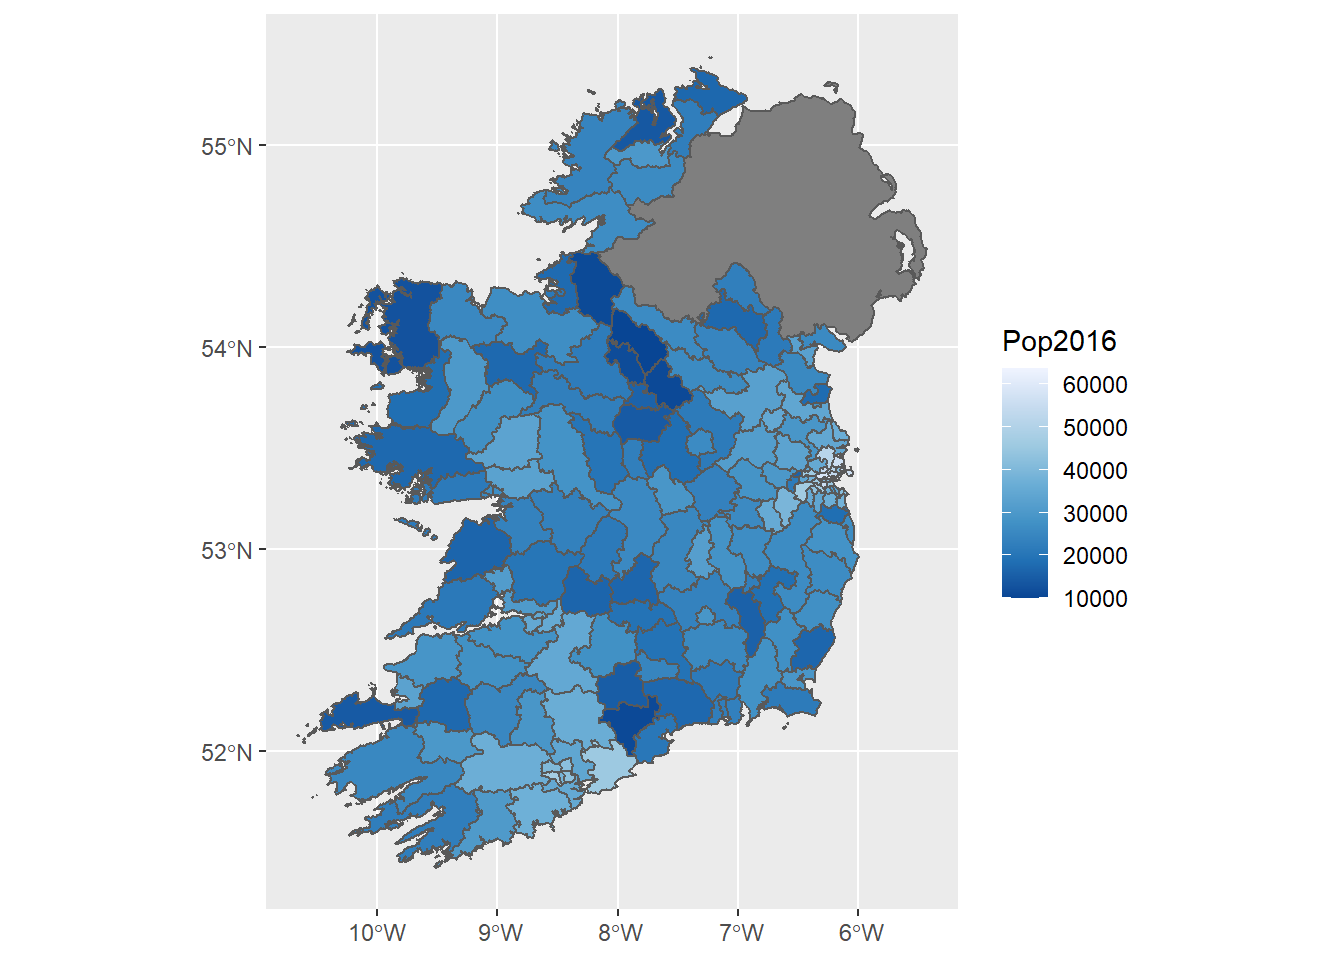
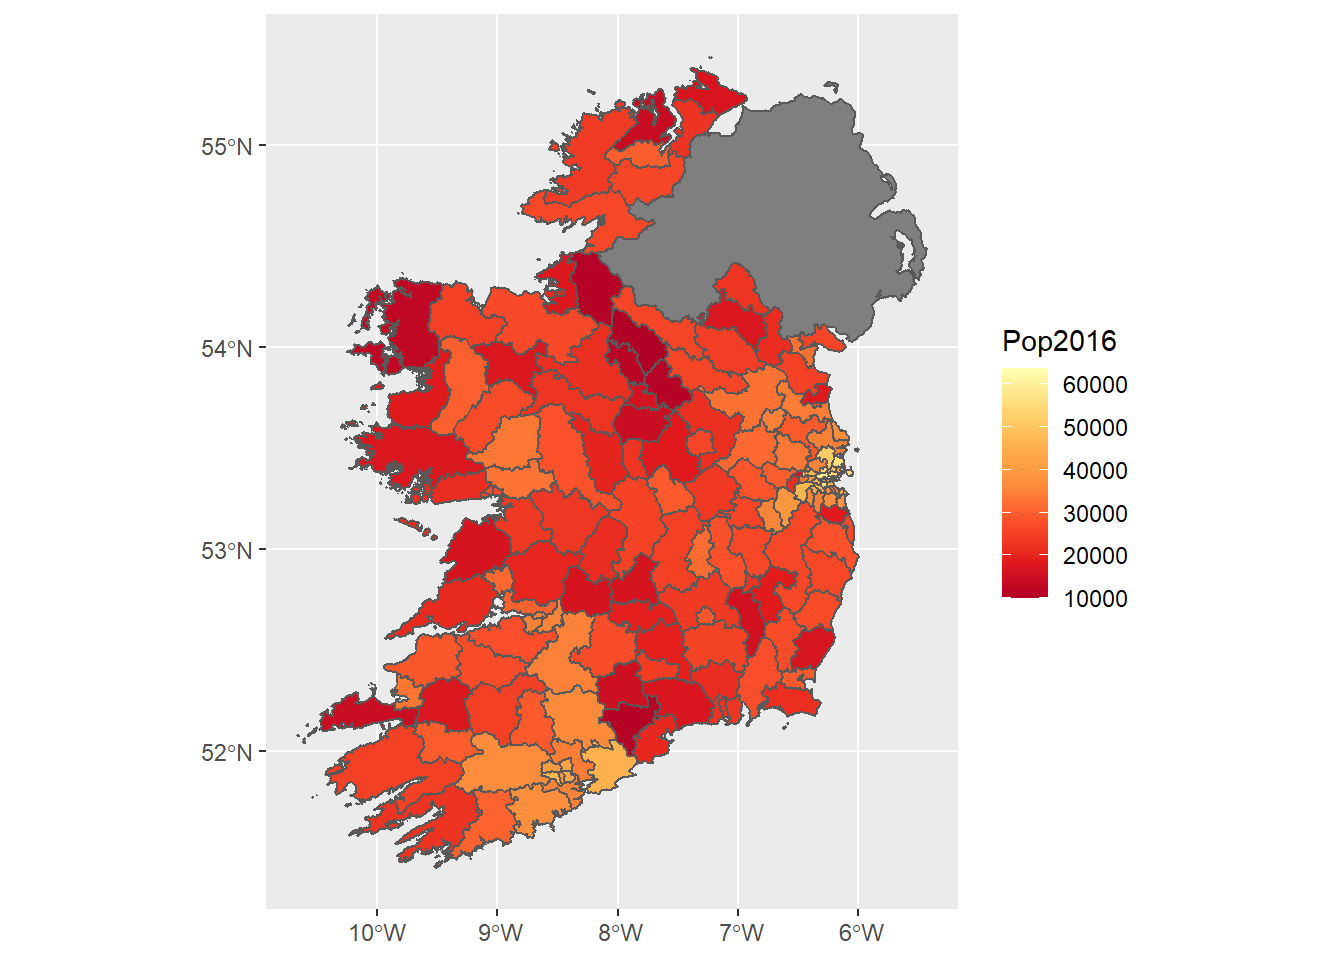
hatch

Changed region(s): [[0.25, 0.0625, 0.6562, 0.9062], [0.7188, 0.375, 0.7812, 0.625]]

diff --git a/docs/index.html b/docs/index.html
@@ -320,16 +320,47 @@ ggsave(file = &quot;images/simple_lea_map.png&quot; , plot = simple_lea_map, wid
 <pre class="r"><code>ggplot() + geom_sf(data = lea_166 , aes(fill=Pop2016))</code></pre>
 <p><img src="index_files/figure-html/chloro_1%20-1.png" width="672" /></p>
 <p>Note the <code>aes()</code> function within <code>geom_sf()</code>. This is for aesthetic mappings, and is very commonly used within ggplot for specifying dimensions. Find out more about this function <a href="https://www.rdocumentation.org/packages/ggplot2/versions/3.3.5/topics/aes">here</a>.</p>
-<p>You’ll see that the colour varies from dark blue to light blue. There are a few easy ways to choose a different range of colours. The first is using <code>scale_fill_distiller</code>:</p>
+<p>You’ll see that the colour varies from dark blue to light blue. There are a few easy ways to choose a different range of colours, and I’ll show two of these here. The first is using <code>scale_fill_distiller</code> which takes an argument <code>palette</code>. Here I’m using the palette <code>YlOrRd</code> which is short for yellow-orange-red. There are 35 different palettes supplied with this function which you can see on the help page for <code>scale_fill_distiller</code>. There are three type of palette: sequential, which are all light to dark and are designed for data that goes from low to high; qualitative, which are for categorical data; and diverging, which have a dark colour at each end and a very light colour in the middle, and these are best suited where the midpoint in the range requires some emphasis.</p>
+<p>There is another argument to <code>scale_fill_distiller</code> that is worth knowing which is <code>direction</code>, and this can be used to flip the palette, e.g. from dark to light instead of light to dark. By default it is equal to <code>-1</code>, so set it to <code>1</code> to reverse.</p>
 <pre class="r"><code>ggplot() + geom_sf(data = lea_166 , aes(fill=Pop2016)) +
-  scale_fill_distiller(palette = &quot;Blues&quot;)</code></pre>
+  scale_fill_distiller(palette = &quot;YlOrRd&quot;)</code></pre>
 <p><img src="index_files/figure-html/chloro_2%20-1.png" width="672" /></p>
+<p>Another useful function for specifying your own gradient is <code>scale_fill_gradient2</code>. This takes three colours for <code>low</code>, <code>mid</code> and <code>high</code>, and then a value for the midpoint (which will take the <code>mid</code> colour). See the example below. You might also be interested in two variations of this function, one simpler and one more complex. The simpler version is <code>scale_fill_gradient</code> which take a high and low colour but no midpoint. Then the more complex version is <code>scale_fill_gradientn</code> which can make a gradient from a longer series of colours passed as a vector to the argument <code>colours =</code> , e.g. <code>scale_fill_gradientn(colours=c("blue", "green", "yellow", "red"))</code>. Often <code>scale_fill_gradientn</code> takes a built-in palette rather than a vector of named colours, e.g. <code>scale_fill_gradientn(colours=rainbow(6))</code>.</p>
 <pre class="r"><code>ggplot() + geom_sf(data = lea_166 , aes(fill=Pop2016)) +
-  scale_fill_gradient2(low = &quot;blue&quot;, high = &quot;red&quot;, mid = &quot;white&quot;, midpoint = 35000)</code></pre>
+  scale_fill_gradient2(low = &quot;blue&quot;, mid = &quot;white&quot;, high = &quot;red&quot;, midpoint = 35000)</code></pre>
 <p><img src="index_files/figure-html/chloro_3%20-1.png" width="672" /></p>
 </div>
 <div id="hatching-and-cross-hatching-regions-in-a-map" class="section level2">
 <h2>Hatching and cross hatching regions in a map</h2>
+<p>Unfortunately there is no built-in means of hatching an area using ggplot, but I found a useful work-around on stack Overflow <a href="https://stackoverflow.com/a/59301874/15703221">here</a>. The code to generate a pattern is shown below. The function <code>hatch_pattern</code> takes three arguments: shape, which is the region (sf object) that you want to show with a hatch; scale, which is a number used to adjust the spacing of the hatch; and pattern which has four options for the direction of the lines in the hatch.</p>
+<pre class="r"><code>hatch_pattern &lt;- function(shape, scale, pattern) {
+  ex = list(
+    horizontal = c(2, 1),
+    vertical = c(1, 4),
+    left2right = c(2, 4),
+    right2left = c(1, 3)
+  )
+  
+  fillgrid = st_make_grid(shape, cellsize = scale)
+  endsf = lapply(1:length(fillgrid), function(j)
+    sf::st_linestring(sf::st_coordinates(fillgrid[j])[ex[[pattern]], 1:2]))
+  endsf = sf::st_sfc(endsf, crs = sf::st_crs(shape))
+  endsf = sf::st_intersection(endsf, shape)
+  endsf = endsf[sf::st_geometry_type(endsf)
+                %in% c(&quot;LINESTRING&quot;, &quot;MULTILINESTRING&quot;)]
+  endsf = sf::st_line_merge(sf::st_union(endsf))
+  return(endsf)
+}</code></pre>
+<p>Now let’s use it to cover County Galway in a green hatch with line from top left to bottom right. I use <code>colour = "green"</code> and <code>size=0.8</code> within the <code>geom_sf()</code> function to control the colour and line thickness respectively.</p>
+<pre class="r"><code>galway_hatch &lt;- hatch_pattern(shape = lea_166 %&gt;% filter(COUNTY==&quot;Galway&quot;), 
+                              scale = 0.1, 
+                              pattern = &quot;left2right&quot;)
+
+ggplot() +
+  geom_sf(data = lea_166) +
+  geom_sf(data = galway_hatch, colour = &quot;green&quot;, size=0.8)</code></pre>
+<p><img src="index_files/figure-html/hatch_galway%20-1.png" width="672" /></p>
+<p>You can make a crosshatch by creating a second hatch having pattern “right2left” and overlaying this with another <code>geom_sf()</code> function.</p>
 </div>
 <div id="plotting-point-locations-in-a-map" class="section level2">
 <h2>Plotting point locations in a map</h2>
